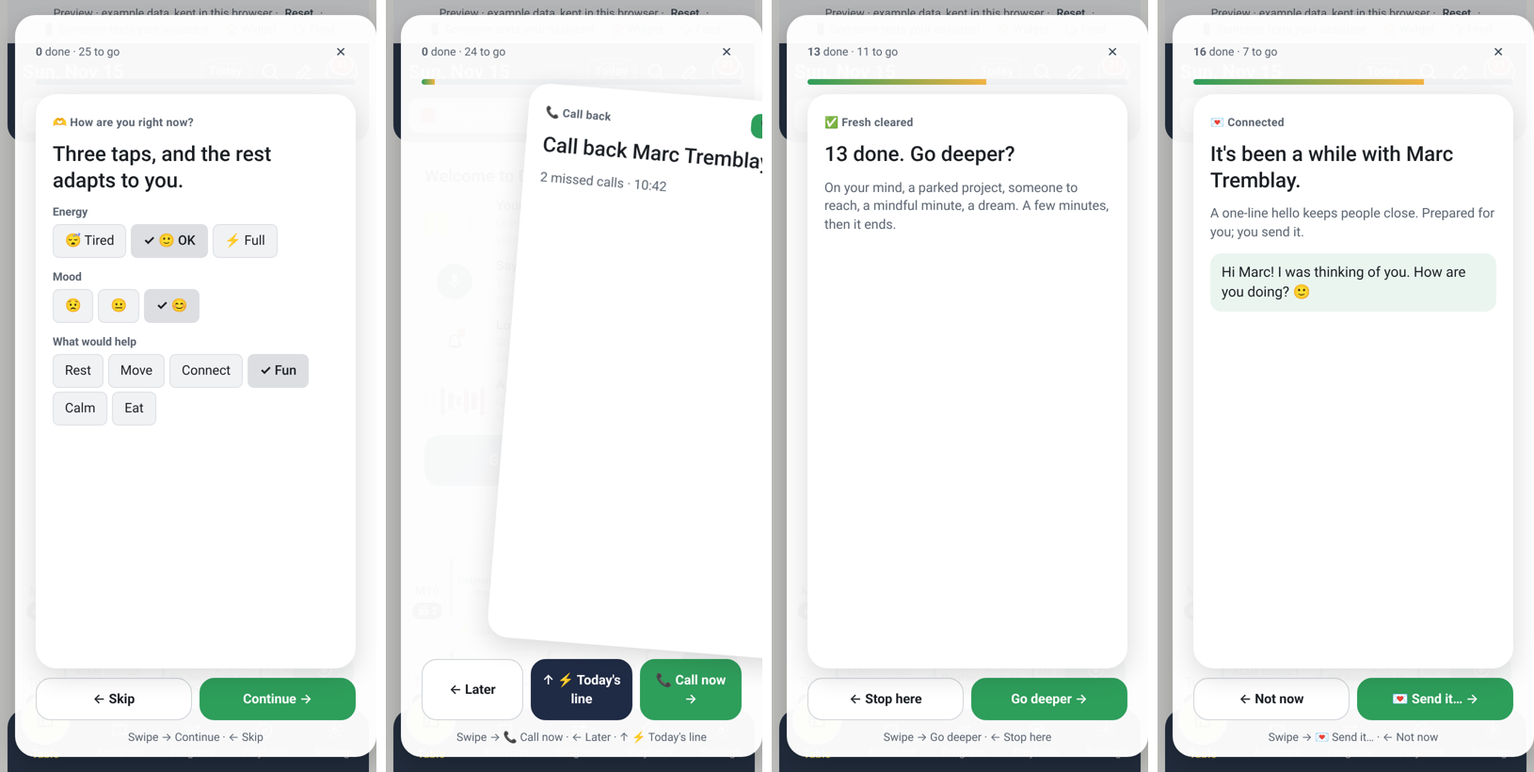
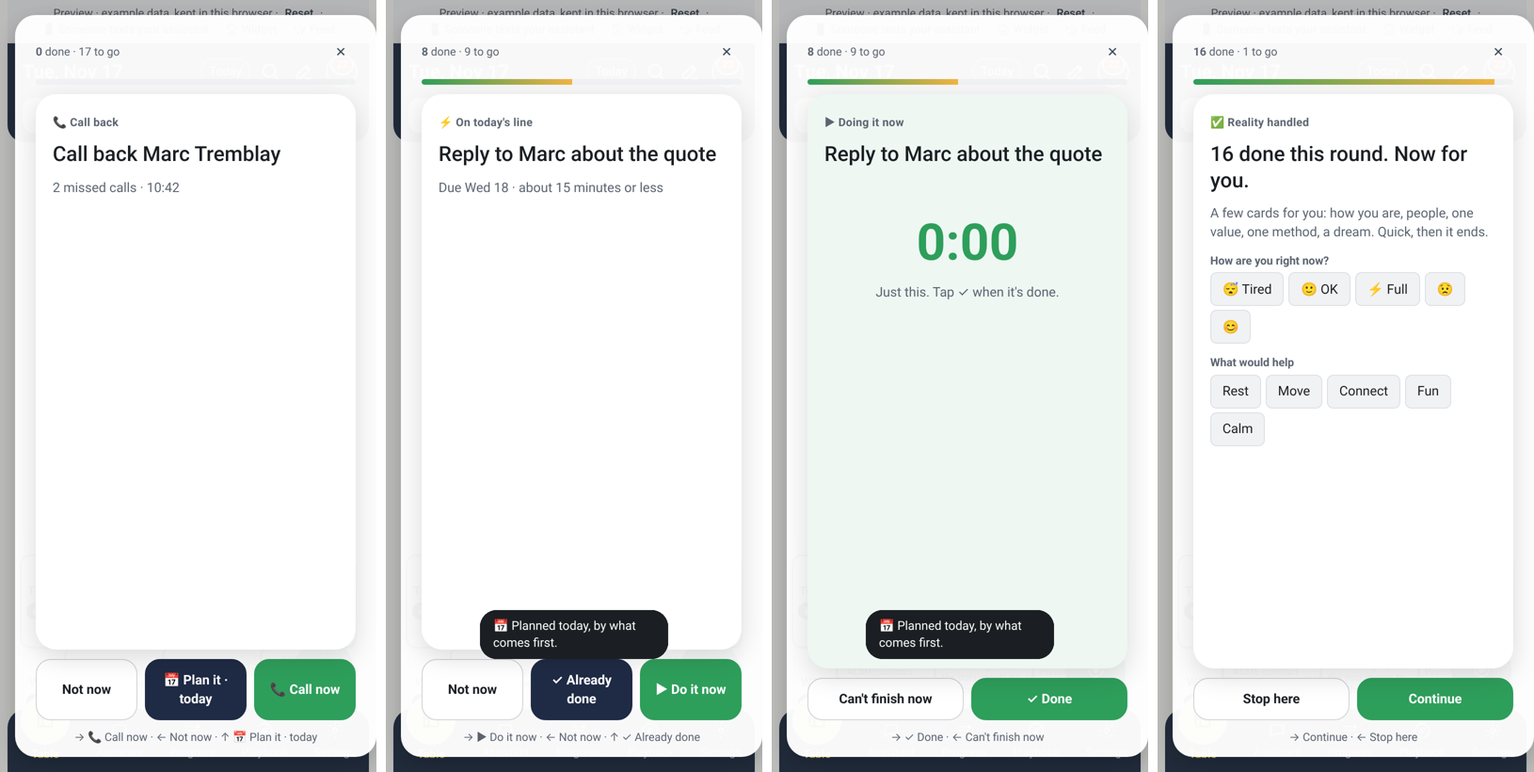
Preview: feed swipe right acts now (or plans at the best moment), inspiration only after real work, method quotes with Try it now
Claude-Session: https://claude.ai/code/session_016YHbQ4tSLyRHgwgfX2aic5

diff --git a/docs/preview/docket5-gbn-preview.html b/docs/preview/docket5-gbn-preview.html
@@ -325,6 +325,8 @@ button.rrow { background: none; border: 0; border-bottom: 1px solid var(--outlin
 .fb.fbr { background: #2E9E5B; border-color: #2E9E5B; color: #fff; } .fb.fbu { background: var(--navy); border-color: var(--navy); color: #fff; }
 .fbreath { display: grid; place-items: center; height: 200px; } .fbreath i { width: 70px; height: 70px; border-radius: 50%; background: radial-gradient(circle, #9fd8b8, #2E9E5B); animation: breathe 8s ease-in-out infinite; }
 @keyframes breathe { 0%, 100% { transform: scale(1); } 50% { transform: scale(2.4); } }
+.fdoing { display: flex; flex-direction: column; align-items: center; gap: 6px; padding: 30px 0; } .fdoing b { font-size: 54px; font-variant-numeric: tabular-nums; color: #2E9E5B; } .fdoing span { color: var(--muted); }
+.fdoingcard { background: color-mix(in srgb, #2E9E5B 8%, var(--surface)); } .fmethod { display: flex; flex-direction: column; gap: 2px; background: var(--variant); border-radius: 12px; padding: 10px 12px; font-size: 15px; } .fmethod b { font-size: 12px; color: var(--muted); }
 .fend { display: grid; grid-template-columns: repeat(3, 1fr); gap: 8px; } .fend div { display: flex; flex-direction: column; align-items: center; background: var(--variant); border-radius: 14px; padding: 10px 4px; }
 .fend b { font-size: 26px; } .fend span { font-size: 11px; color: var(--muted); text-align: center; } .fendcard { background: linear-gradient(160deg, color-mix(in srgb, #F2B544 18%, var(--surface)), var(--surface)); }
 .feedgo { font: inherit; font-weight: 700; font-size: 14px; border: 0; border-radius: 14px; padding: 10px; background: #F2B544; color: #1F2A44; cursor: pointer; }
@@ -8349,107 +8351,128 @@ document.addEventListener("click", e => {
   plan(S); save(); render();
 });
 
-/* ---------- 🎲 The feed: one card at a time. Fresh first, then deeper; every inspiring card ends with an action; it always ends ---------- */
+/* ---------- 🎲 The feed: one card at a time. Swipe right acts now (or plans it at its best moment); reality first, then inspiration ---------- */
 /**
- * The three switches, on one deck: procrastination → action (fresh cards, quick things, parked projects), lost mind →
- * mindfulness (how are you, a mindful minute), bored mind → happy mind (dreams, nourish, remember), on a base of
- * connection (reach out, thank). Swipe right = do it, left = not now, up = the other way. By rules, on the phone.
+ * Swipe right = act now: reply, call, do it (a small timer runs while you do), or, when it can't be done now, plan it
+ * at its best moment by the order of what comes first (the day is shown on the button before the swipe). Up = plan it.
+ * Left = not now. Practical cards first (fresh, on my mind, parked); people, values and methods only after real work.
  */
-const QUOTES = [
-  ["The best time to plant a tree was 20 years ago. The second best time is now.", "Chinese proverb"],
-  ["It always seems impossible until it's done.", "Nelson Mandela"],
-  ["Do what you can, with what you have, where you are.", "Theodore Roosevelt"],
-  ["A journey of a thousand miles begins with a single step.", "Lao Tzu"],
-  ["You don't have to be great to start, but you have to start to be great.", "Zig Ziglar"],
-  ["Whether you think you can, or you think you can't, you're right.", "Henry Ford"],
+/** Methods worth knowing, each with its quote, what it teaches, and one thing to try now in the app. */
+const METHODS = [
+  { q: "If it takes less than two minutes, do it now.", a: "David Allen, Getting Things Done", m: "The 2-minute rule: tiny things done at once never pile up.", try: "two" },
+  { q: "Eat a live frog first thing in the morning, and nothing worse will happen to you the rest of the day.", a: "attributed to Mark Twain", m: "Eat the frog: the hardest task first, before the day takes your energy.", try: "frog" },
+  { q: "Work expands so as to fill the time available for its completion.", a: "C. Northcote Parkinson", m: "Timeboxing: give a task a fixed time, and it shrinks to fit.", try: "box" },
+  { q: "You do not rise to the level of your goals. You fall to the level of your systems.", a: "James Clear, Atomic Habits", m: "Habit stacking: tie a new habit to one you already have.", try: "stack" },
+  { q: "The key is not to prioritize what's on your schedule, but to schedule your priorities.", a: "Stephen Covey", m: "Big rocks first: your most important thing gets the first cell, not the leftovers.", try: "frog" },
+  { q: "Done is better than perfect.", a: "Sheryl Sandberg", m: "The ugly first draft: 15 minutes of imperfect progress beats waiting to be ready.", try: "draft" },
+  { q: "If you want a habit to stick, make it tiny.", a: "BJ Fogg, Tiny Habits", m: "Start so small you can't fail: 2 push-ups, one line, one email.", try: "stack" },
+  { q: "What gets measured gets managed.", a: "Peter Drucker", m: "The weekly review: 15 minutes on Sunday to see what moved and plan what's next.", try: "review" },
 ];
 const DREAM_QS = ["What did you love doing as a kid?", "If you had a free year, what would you do?", "What do you regret not trying yet?", "What would you do if you knew you couldn't fail?"];
-/** Small, concrete steps per value (the user's own values come first; else these by kind of value). */
 const VALUE_STEPS = { Health: ["🚶 A 15-minute walk", "💧 2 big glasses of water", "😴 In bed by 22:30"], Family: ["📞 Call a family member", "🍽 Plan a family dinner", "🎲 20 minutes of play"],
   Relationships: ["💌 Write to a friend", "☕ Plan a coffee with someone", "🙏 Thank someone"], Joy: ["🎵 Your favourite album", "🌳 Time outside", "🎨 30 minutes on a hobby"],
   Money: ["💲 Check this month's spending", "🧾 Pay one bill", "📈 15 minutes on your savings"], Reputation: ["🗣 Share one win on LinkedIn", "📝 Write 3 lines for your site", "🤝 Message a past client"],
   Organized: ["🗂 10 minutes of tidying", "📥 Empty one inbox", "🗓 Plan tomorrow"], Methodic: ["🗓 Plan tomorrow", "📋 Review your week", "🎯 One thing first tomorrow"] };
 const GENERIC_STEPS = ["⏱ 10 minutes on it today", "🗓 A block for it this week", "🤝 Ask someone to join you"];
+/** Inspiration comes after reality: at least this many things done (this round, or today). */
+const EARN = 3;
 let feed = null;
 
 function weekKey() { return weekOf(TODAY).mon; }
 function feedStats() { S.feedStats ||= {}; return S.feedStats[weekKey()] ||= { cleared: 0, inspired: 0, acted: 0 }; }
-/** The deck, in layers: how are you (if not asked lately), fresh (notifications, today's quick things), then deeper. */
-function buildDeck() {
-  const deck = [], m = S.feedMood || {}, stale = !m.at || (Date.now() - m.at) > 3 * 3600e3;
-  if (stale) deck.push({ t: "checkin" });
+const doneToday = () => S.tasks.reduce((n, t) => n + t.steps.filter(x => x.done && x.date === TODAY).length, 0) + (S.quick || []).filter(q => q.done && q.doneOn === TODAY).length;
+/** The best day for a quick thing: today while today's ⚡ line has room, else tomorrow (or before its deadline). */
+const quickBest = q => quickOn(TODAY).filter(x => !x.done).length < quickPerDay() || (q.due && q.due <= TODAY) ? TODAY : addDays(TODAY, 1);
+const whenLabel = d => d === TODAY ? "today" : d === addDays(TODAY, 1) ? "tomorrow" : dayFull(d);
+/** The method that fits now: many pushes → eat the frog or timebox; stuck work → the ugly draft; few routines → habits. */
+function methodNow() {
+  const pushed = S.tasks.flatMap(t => t.steps).filter(x => !x.done && (x.pushLog || []).length > 1).length, small = quickPool().length;
+  const pick = pushed > 2 ? ["frog", "box"] : (S.routines || []).length < 3 ? ["stack"] : small > 6 ? ["two"] : ["draft", "review", "frog"];
+  const list = METHODS.filter(x => pick.includes(x.try)), seen = S.feedM || 0; S.feedM = seen + 1;
+  return list[seen % list.length];
+}
+function buildDeck(earned) {
+  const deck = [];
   const fresh = [];
   jimmyItems().filter(x => !x.prog && (["todo", "flag", "loop", "news"].includes(x.kind) && x.u || x.kind === "call")).slice(0, 8).forEach(x => fresh.push({ t: "note", x }));
   quickOn(TODAY).filter(q => !q.done).slice(0, 5).forEach(q => fresh.push({ t: "quick", q }));
   deck.push(...fresh);
-  deck.push({ t: "deeper", n: fresh.length });
-  const deep = [];
-  quickPool().filter(q => !todayPick().includes(q.id)).slice(0, 3).forEach(q => deep.push({ t: "mind", q }));
-  S.projects.filter(p => p.pause || (isIdea(S, p) && parkedCount(p))).slice(0, 2).forEach(p => deep.push({ t: "parked", p }));
-  const vip = (S.settings.vip || [])[(new Date().getDate()) % Math.max(1, (S.settings.vip || []).length)];
-  if (vip) deep.push({ t: "reach", name: vip });
-  deep.push({ t: "thank" });
-  const b = balanceOf(), weak = Object.values(b.V).sort((x, y) => x.pct - y.pct)[0];
-  if (weak) deep.push({ t: "weak", w: weak, q: (S.feedQ = ((S.feedQ || 0) + 1) % 3) });
-  deep.push({ t: "breath" });
-  deep.push(...((S.projects.filter(p => p.dream).length < 3) ? [{ t: "dreamq", q: DREAM_QS[(S.feedQ || 0) % DREAM_QS.length] }] : []), { t: "dream", quote: QUOTES[new Date().getDate() % QUOTES.length] });
-  const fin = S.projects.map(p => ({ p, x: projectStats(S, p) })).filter(r => r.x.total && !r.x.open)[0];
-  deep.push(fin ? { t: "remember", name: fin.p.name, when: fin.x.doneOn } : { t: "remember", name: `${b.doneCount || 0} cells done this week`, when: null });
-  // Tired, low or scattered: the mindful minute and the people come first, before anything to do.
-  if (m.energy === "tired" || m.mood === "low" || ["rest", "calm", "connect"].includes(m.need)) {
-    const soft = deep.filter(c => ["breath", "reach", "thank"].includes(c.t)), rest = deep.filter(c => !soft.includes(c));
-    deep.splice(0, deep.length, ...soft, ...rest);
-  }
-  deck.push(...deep, { t: "end" });
+  // Still practical: what's on my mind and the parked projects.
+  quickPool().filter(q => !todayPick().includes(q.id)).slice(0, 3).forEach(q => deck.push({ t: "mind", q }));
+  S.projects.filter(p => p.pause || (isIdea(S, p) && parkedCount(p))).slice(0, 2).forEach(p => deck.push({ t: "parked", p }));
+  // Then, once real things are done: how are you, people, the weak value, a method, a mindful minute, a dream, remember.
+  deck.push({ t: "gate" });
+  deck.push({ t: "end" });
   return deck;
 }
-function feedSheet() {
-  feed = { deck: buildDeck(), i: 0, cleared: 0, start: Date.now(), panel: null };
-  drawFeed();
+/** The inspiring part, added only when earned; the mood decides what comes first. */
+function deepDeck() {
+  const d = [], m = S.feedMood || {};
+  const vip = (S.settings.vip || [])[(new Date().getDate()) % Math.max(1, (S.settings.vip || []).length)];
+  if (vip) d.push({ t: "reach", name: vip });
+  d.push({ t: "thank" });
+  const b = balanceOf(), weak = Object.values(b.V).sort((x, y) => x.pct - y.pct)[0];
+  if (weak) d.push({ t: "weak", w: weak, q: (S.feedQ = ((S.feedQ || 0) + 1) % 3) });
+  d.push({ t: "method", m: methodNow() });
+  d.push({ t: "breath" });
+  d.push(...(S.projects.filter(p => p.dream).length < 3 ? [{ t: "dreamq", q: DREAM_QS[(S.feedQ || 0) % DREAM_QS.length] }] : []), { t: "dream" });
+  const fin = S.projects.map(p => ({ p, x: projectStats(S, p) })).filter(r => r.x.total && !r.x.open)[0];
+  d.push(fin ? { t: "remember", name: fin.p.name, when: fin.x.doneOn } : { t: "remember", name: `${b.doneCount || 0} cells done this week`, when: null });
+  if (m.energy === "tired" || m.mood === "low" || ["rest", "calm", "connect"].includes(m.need)) {
+    const soft = d.filter(c => ["breath", "reach", "thank"].includes(c.t)); return [...soft, ...d.filter(c => !soft.includes(c))];
+  }
+  return d;
 }
-const feedNext = (cleared = false) => { if (cleared) { feed.cleared++; feedStats().cleared++; } feed.i++; feed.panel = null; save(); drawFeed(); };
+function feedSheet() { feed = { deck: buildDeck(), i: 0, cleared: 0, start: Date.now(), doing: null }; drawFeed(); }
+const feedNext = (cleared = false) => { if (cleared) { feed.cleared++; feedStats().cleared++; } feed.i++; feed.doing = null; save(); drawFeed(); };
 const acted = () => { feedStats().acted++; };
-/** What a card shows and what each way does: [label, run]. */
+/** "Doing it now": the card turns into a small timer; ✓ Done when finished, or plan it if it can't be finished now. */
+function doNow(title, done, later) { feed.doing = { title, at: Date.now(), done, later }; drawFeed(); }
 function cardOf(c) {
-  const close = (u, how) => { u.handled = true; if (u.status === "new") u.status = "dismissed"; u.handledAs = how; };
+  const closeU = (u, how) => { u.handled = true; if (u.status === "new") u.status = "dismissed"; u.handledAs = how; };
+  if (feed.doing) { const g = feed.doing;
+    return { k: "▶ Doing it now", title: g.title, body: `<div class="fdoing"><b id="f-timer">0:00</b><span>Just this. Tap ✓ when it's done.</span></div>`,
+      right: ["✓ Done", () => { g.done(); acted(); feedNext(true); }], left: ["Can't finish now", () => { g.later(); feedNext(true); }] }; }
   switch (c.t) {
-    case "checkin": { const m = feed.mood ||= {};
-      return { k: "🫶 How are you right now?", title: "Three taps, and the rest adapts to you.", body: `
-        <div class="fqs"><span>Energy</span><div class="picks">${[["tired", "😴 Tired"], ["ok", "🙂 OK"], ["full", "⚡ Full"]].map(([v, l]) => tag(m.energy === v, `data-fm="energy|${v}"`, l)).join("")}</div></div>
-        <div class="fqs"><span>Mood</span><div class="picks">${[["low", "😟"], ["meh", "😐"], ["good", "😊"]].map(([v, l]) => tag(m.mood === v, `data-fm="mood|${v}"`, l)).join("")}</div></div>
-        <div class="fqs"><span>What would help</span><div class="picks">${[["rest", "Rest"], ["move", "Move"], ["connect", "Connect"], ["fun", "Fun"], ["calm", "Calm"], ["eat", "Eat"]].map(([v, l]) => tag(m.need === v, `data-fm="need|${v}"`, l)).join("")}</div></div>`,
-        right: ["Continue", () => { S.feedMood = { ...m, at: Date.now() }; feed.deck = [...feed.deck.slice(0, feed.i + 1), ...buildDeck().filter(x => x.t !== "checkin")]; feedNext(); }],
-        left: ["Skip", () => { S.feedMood = { at: Date.now() }; feedNext(); }] }; }
     case "note": { const x = c.x, u = x.u;
       if (x.kind === "call") return { k: "📞 Call back", title: x.title, body: `<div class="fsub">${esc(x.sub)}</div>`,
         right: ["📞 Call now", () => { toast(`On the phone: the dialer opens on ${x.c.who}.`); S.missed = S.missed.filter(y => y !== x.c); feedNext(true); }],
-        left: ["Later", () => feedNext()], up: ["⚡ Today's line", () => { addQuick(`📞 Call back ${x.c.who}`, TODAY, { impact: 3 }); S.missed = S.missed.filter(y => y !== x.c); feedNext(true); }] };
-      return { k: `${JKIND[x.kind][0]} ${JKIND[x.kind][1]} · ${esc(x.from)}`, title: x.title, body: `<div class="fsub">${esc(x.sub)}</div>`,
-        right: ["✓ Done", () => { close(u, "done"); feedNext(true); }],
-        left: ["⏰ Later", () => { u.park = { day: addDays(TODAY, 1) }; feedNext(); }],
-        up: ["⚡ Today", () => { addQuick(x.title, TODAY, { area: x.area }); close(u, "done"); feedNext(true); }] }; }
-    case "quick": { const q = c.q;
+        left: ["Not now", () => feedNext()], up: ["📅 Plan it · today", () => { addQuick(`📞 Call back ${x.c.who}`, TODAY, { impact: 3 }); S.missed = S.missed.filter(y => y !== x.c); feedNext(true); }] };
+      // The best action now: answer it, do what it proposes (placed at its best moment), or close it.
+      const reply = !u.reply && canReply(u), proposes = (u.actions || []).length && u.status === "new";
+      const right = reply ? ["↩ Reply now", () => { feed.i++; save(); replySheet(u); }]
+        : proposes ? ["✓ Do as proposed", () => { applyActions(S, u.actions); u.status = "applied"; closeU(u, "done"); plan(S); const st = S.tasks.flatMap(t => t.steps).find(s => s.title === (u.actions.find(a => a.type === "add") || {}).title); toast(st && st.date ? `📅 Planned ${whenLabel(st.date)}, by what comes first.` : "✓ Done as proposed."); feedNext(true); }]
+        : ["✓ Done", () => { closeU(u, "done"); feedNext(true); }];
+      return { k: `${JKIND[x.kind][0]} ${JKIND[x.kind][1]} · ${esc(x.from)}`, title: x.title, body: `<div class="fsub">${esc(x.sub)}</div>`, right,
+        left: ["Not now", () => { u.park = { day: addDays(TODAY, 1) }; feedNext(); }],
+        up: ["📅 Plan it", () => { const t = newTask(S, { title: x.title, desc: u.summary || "" }); t.area = x.area; plan(S); closeU(u, "done"); toast(`📅 Planned ${whenLabel(t.steps[0].date || TODAY)}, by what comes first.`); feedNext(true); }] }; }
+    case "quick": { const q = c.q, best = quickBest(q);
       return { k: "⚡ On today's line", title: q.title, body: `<div class="fsub">${q.due ? "Due " + esc(dayName(q.due)) : "No deadline"} · about 15 minutes or less</div>`,
-        right: ["✓ Done", () => { q.done = true; q.doneOn = TODAY; feedNext(true); }], left: ["Not today", () => { swapQuick(q.id); feedNext(); }],
-        up: ["📋 It's bigger", () => { S.quick = S.quick.filter(y => y !== q); newTask(S, { title: q.title, desc: "" }); plan(S); feedNext(true); }] }; }
-    case "deeper": return { k: c.n ? "✅ Fresh cleared" : "✨ Nothing new", title: c.n ? `${feed.cleared} done. Go deeper?` : "Nothing new to handle. Go deeper?",
-      body: `<div class="fsub">On your mind, a parked project, someone to reach, a mindful minute, a dream. A few minutes, then it ends.</div>`,
-      right: ["Go deeper", () => feedNext()], left: ["Stop here", () => { feed.i = feed.deck.length - 1; drawFeed(); }] };
-    case "mind": { const q = c.q;
-      return { k: "✏ On your mind", title: q.title, body: `<div class="picks">${tag(false, 'data-fx="buy"', "🛒 To buy")}${tag(false, 'data-fx="idea"', "💡 Idea")}${tag(false, 'data-fx="del"', "🗑 Drop")}</div>`,
-        right: ["⚡ Today", () => { const ids = todayPick(); if (!ids.includes(q.id)) S.quickPick.ids.push(q.id); feedNext(true); }], left: ["Later", () => feedNext()],
-        up: ["📋 A task", () => { S.quick = S.quick.filter(y => y !== q); newTask(S, { title: q.title, desc: "" }); plan(S); feedNext(true); }],
-        extra: k => { S.quick = S.quick.filter(y => y !== q); if (k === "buy") S.buy.push({ id: uid(), text: q.title, done: false, work: false }); if (k === "idea") S.projects.push({ name: q.title, priority: "NORMAL", deadline: null, values: [], blocks: [], notes: "" }); feedNext(true); } }; }
+        right: ["▶ Do it now", () => doNow(q.title, () => { q.done = true; q.doneOn = TODAY; }, () => { q.date = addDays(TODAY, 1); swapQuick(q.id); })],
+        left: ["Not now", () => { swapQuick(q.id); feedNext(); }],
+        up: ["✓ Already done", () => { q.done = true; q.doneOn = TODAY; feedNext(true); }] }; }
+    case "mind": { const q = c.q, best = quickBest(q);
+      return { k: "✏ On your mind", title: q.title, body: `<div class="picks">${tag(false, 'data-fx="task"', "📋 It's a task")}${tag(false, 'data-fx="buy"', "🛒 To buy")}${tag(false, 'data-fx="idea"', "💡 Idea")}${tag(false, 'data-fx="del"', "🗑 Drop")}</div>`,
+        right: ["▶ Do it now", () => doNow(q.title, () => { q.done = true; q.doneOn = TODAY; }, () => { q.date = addDays(TODAY, 1); })],
+        left: ["Not now", () => feedNext()],
+        up: [`📅 Plan it · ${whenLabel(best)}`, () => { if (best === TODAY) { const ids = todayPick(); if (!ids.includes(q.id)) S.quickPick.ids.push(q.id); } else q.date = best; feedNext(true); }],
+        extra: k => { S.quick = S.quick.filter(y => y !== q); if (k === "task") { newTask(S, { title: q.title, desc: "" }); plan(S); } if (k === "buy") S.buy.push({ id: uid(), text: q.title, done: false, work: false }); if (k === "idea") S.projects.push({ name: q.title, priority: "NORMAL", deadline: null, values: [], blocks: [], notes: "" }); feedNext(true); } }; }
     case "parked": { const p = c.p;
       return { k: "⏸ Parked", title: p.name, body: `<div class="fsub">${p.pause ? `${esc(p.pause.why || "Paused")} · since ${esc(dayName(p.pause.since))}` : `${parkedCount(p)} steps waiting`}</div>`,
-        right: ["▶ Resume", () => { delete p.pause; resumeProject(p.name); feedNext(true); }], left: ["Still later", () => feedNext()],
+        right: ["▶ Resume", () => { delete p.pause; resumeProject(p.name); feedNext(true); }], left: ["Not now", () => feedNext()],
         up: ["1⃣ One small step", () => { const st = S.tasks.filter(t => t.project === p.name).flatMap(t => t.steps).find(x => x.outcome === "PARKED"); if (st) { st.outcome = null; plan(S); } toast("Only its first step is back in your table."); feedNext(true); }] }; }
-    case "reach": { 
-      const msg = `Hi ${c.name.split(" ")[0]}! I was thinking of you. How are you doing? 🙂`;
+    case "gate": { const n = feed.cleared + doneToday();
+      if (n < EARN) { feed.deck.splice(feed.i, 1); return cardOf(feed.deck[feed.i]); }
+      const m = feed.mood ||= {};
+      return { k: "✅ Reality handled", title: `${feed.cleared} done this round. Now for you.`, body: `<div class="fsub">A few cards for you: how you are, people, one value, one method, a dream. Quick, then it ends.</div>
+        <div class="fqs"><span>How are you right now?</span><div class="picks">${[["tired", "😴 Tired"], ["ok", "🙂 OK"], ["full", "⚡ Full"]].map(([v, l]) => tag(m.energy === v, `data-fm="energy|${v}"`, l)).join("")}${[["low", "😟"], ["good", "😊"]].map(([v, l]) => tag(m.mood === v, `data-fm="mood|${v}"`, l)).join("")}</div></div>
+        <div class="fqs"><span>What would help</span><div class="picks">${[["rest", "Rest"], ["move", "Move"], ["connect", "Connect"], ["fun", "Fun"], ["calm", "Calm"]].map(([v, l]) => tag(m.need === v, `data-fm="need|${v}"`, l)).join("")}</div></div>`,
+        right: ["Continue", () => { S.feedMood = { ...m, at: Date.now() }; feed.deck.splice(feed.i + 1, 0, ...deepDeck()); feedNext(); }],
+        left: ["Stop here", () => { feed.i = feed.deck.length - 1; drawFeed(); }] }; }
+    case "reach": { const msg = `Hi ${c.name.split(" ")[0]}! I was thinking of you. How are you doing? 🙂`;
       return { k: "💌 Connected", title: `It's been a while with ${c.name}.`, body: `<div class="fsub">A one-line hello keeps people close. Prepared for you; you send it.</div><div class="fmsg">${esc(msg)}</div>`,
         right: ["💌 Send it…", () => { acted(); toast(`On the phone: your messages open with the line ready for ${c.name}. You send it.`); feedNext(true); }], left: ["Not now", () => feedNext()] }; }
-    case "thank": { 
-      const names = [...new Set([...(S.settings.vip || []), ...S.updates.slice(0, 6).map(u => u.from.replace(/\s*\(.*$/, ""))])].slice(0, 5);
+    case "thank": { const names = [...new Set([...(S.settings.vip || []), ...S.updates.slice(0, 6).map(u => u.from.replace(/\s*\(.*$/, ""))])].slice(0, 5);
       return { k: "🙏 Connected", title: "Who helped you this week?", body: `<div class="picks">${names.map(n => tag(feed.who === n, `data-fw="${esc(n)}"`, esc(n))).join("")}</div>
         ${feed.who ? `<div class="fmsg">Thank you ${esc(feed.who.split(" ")[0])} for your help this week. It really made a difference 🙏</div>` : `<div class="fsub">Pick someone: a thank-you is prepared for you to send.</div>`}`,
         right: ["🙏 Send it…", () => { if (!feed.who) return toast("Pick someone first."); acted(); toast(`On the phone: your messages open with the thank-you for ${feed.who}.`); feed.who = null; feedNext(true); }], left: ["Not now", () => { feed.who = null; feedNext(); }] }; }
@@ -8461,28 +8484,37 @@ function cardOf(c) {
       const [qt, chips] = qs[c.q % qs.length];
       return { k: `🌱 ${w.v.bucket === "nourish" ? "Nourish" : w.v.bucket === "build" ? "Build" : "Ground"} · your lowest this week`, title: qt,
         body: `<div class="fchips">${chips.map(([l], i) => `<button class="fchip" data-fc="${i}">${esc(l)}</button>`).join("")}</div>`,
-        chips: i => { chips[i][1](); acted(); toast("✓ Done: it's in your plan."); feedNext(true); }, left: ["Not now", () => feedNext()] }; }
-    case "breath": { 
-      return { k: "🧘 A mindful minute", title: "Breathe with the circle.", body: `<div class="fbreath"><i></i></div><div class="fsub" style="text-align:center">In as it grows, out as it shrinks. Just this, for one minute.</div>`,
-        right: ["✓ Done", () => { acted(); feedNext(true); }], left: ["Skip", () => feedNext()] }; }
-    case "dreamq": { 
-      return { k: "✨ Your dreams", title: c.q, body: `<input id="f-dream" class="jnote" placeholder="A few words, e.g. play the piano" style="width:100%"><div class="fsub">It becomes a dream ✨ in your ideas, with a first small step.</div>`,
-        right: ["✨ Keep it", () => { const v = ($("#f-dream").value || "").trim(); if (!v) return toast("A few words first."); S.projects.push({ name: v, priority: "NORMAL", deadline: null, values: [], blocks: [], notes: `✨ A dream: “${c.q}”`, dream: true }); acted(); feedNext(true); }],
-        left: ["Not now", () => feedNext()] }; }
+        chips: i => { chips[i][1](); acted(); toast("✓ In your plan."); feedNext(true); }, left: ["Not now", () => feedNext()] }; }
+    case "method": { const m = c.m, top = S.tasks.flatMap(t => t.steps.filter(x => !x.done && !x.outcome && x.date && x.date >= TODAY).map(x => ({ t, x }))).sort((a, b) => keyCmp(orderKey(S, a.t, a.x), orderKey(S, b.t, b.x)));
+      const tries = {
+        two: [["⚡ Do one 2-minute thing now", () => { const q = quickPool()[0] || quickOn(TODAY).find(z => !z.done); if (q) return doNow(q.title, () => { q.done = true; q.doneOn = TODAY; }, () => { }); toast("Nothing that small right now."); }]],
+        frog: top.slice(0, 3).map(({ t, x }) => [`🐸 ${cellTitle(t, x)} first tomorrow`, () => { pinStepTo(S, x, addDays(TODAY, 1)); x.slot = 0; plan(S, { resort: false }); toast("🐸 Tomorrow's first cell."); }]),
+        box: top.slice(0, 2).map(({ t, x }) => [`⏱ 25 minutes on “${cellTitle(t, x)}” now`, () => doNow(`25 minutes: ${cellTitle(t, x)}`, () => { x.done = true; }, () => { })]),
+        stack: ["☕ my morning coffee", "🥗 lunch", "🏠 getting home"].map(a => [`After ${a.replace(/^\S+\s/, "")}: one tiny habit`, () => { (S.routines ||= []).push({ id: uid(), title: `Tiny habit, after ${a.replace(/^\S+\s/, "")}`, days: [1, 2, 3, 4, 5, 6, 7], moment: a.includes("coffee") ? "morning" : a.includes("lunch") ? "noon" : "evening" }); toast("🔁 A tiny routine, set."); }]),
+        draft: top.slice(0, 2).map(({ t, x }) => [`✏ 15 ugly minutes on “${cellTitle(t, x)}”`, () => doNow(`15 minutes, imperfect: ${cellTitle(t, x)}`, () => { }, () => { })]),
+        review: [["🗓 A 15-minute review, Sunday", () => { addQuick("🗓 Weekly review (15 minutes)", (() => { let d = TODAY; while (dow(d) !== 7) d = addDays(d, 1); return d; })(), { impact: 3 }); toast("🗓 Sunday's ⚡ line."); }]] };
+      const chips = (tries[m.try] || []).filter(Boolean);
+      return { k: "🧠 A method that works", title: `“${m.q}”`, body: `<div class="fsub">— ${esc(m.a)}</div><div class="fmethod"><b>The method</b>${esc(m.m)}</div>
+        ${chips.length ? `<div class="fq2">Try it now</div><div class="fchips">${chips.map(([l], i) => `<button class="fchip" data-fc="${i}">${esc(l)}</button>`).join("")}</div>` : ""}`,
+        chips: i => { const before = feed.doing; chips[i][1](); acted(); if (!feed.doing || feed.doing === before) feedNext(true); }, left: ["Next", () => feedNext()] }; }
+    case "breath": return { k: "🧘 A mindful minute", title: "Breathe with the circle.", body: `<div class="fbreath"><i></i></div><div class="fsub" style="text-align:center">In as it grows, out as it shrinks. One minute resets a scattered mind.</div>`,
+      right: ["✓ Done", () => { acted(); feedNext(true); }], left: ["Skip", () => feedNext()] };
+    case "dreamq": return { k: "✨ Your dreams", title: c.q, body: `<input id="f-dream" class="jnote" placeholder="A few words, e.g. play the piano" style="width:100%"><div class="fsub">It becomes a dream ✨ in your ideas, with a first small step.</div>`,
+      right: ["✨ Keep it", () => { const v = ($("#f-dream").value || "").trim(); if (!v) return toast("A few words first."); S.projects.push({ name: v, priority: "NORMAL", deadline: null, values: [], blocks: [], notes: `✨ A dream: “${c.q}”`, dream: true }); acted(); feedNext(true); }],
+      left: ["Not now", () => feedNext()] };
     case "dream": { const dreams = S.projects.filter(p => p.dream).map(p => p.name), d = feed.dream;
-      return { k: "✨ Quote of the moment", title: `“${c.quote[0]}”`, body: `<div class="fsub">— ${esc(c.quote[1])}</div>
-        <div class="fq2">${dreams.length ? "Which dream have you postponed the longest?" : "What would you love to start?"}</div>
-        <div class="picks">${(dreams.length ? dreams : ["Learn an instrument", "A trip I keep postponing", "Write something"]).slice(0, 5).map(n => tag(d === n, `data-fd="${esc(n)}"`, "✨ " + esc(n))).join("")}</div>
+      if (!dreams.length) { feed.deck.splice(feed.i, 1); return cardOf(feed.deck[feed.i]); }
+      return { k: "✨ A dream, one step", title: "Which dream have you postponed the longest?", body: `<div class="fsub">Small steps are how dreams move: a 10-minute step today beats a perfect plan someday.</div>
+        <div class="picks">${dreams.slice(0, 5).map(n => tag(d === n, `data-fd="${esc(n)}"`, "✨ " + esc(n))).join("")}</div>
         ${d ? `<div class="fq2">Its smallest first step?</div><div class="fchips">${["⏱ 10 minutes on it today", "📞 Call someone about it", "🗓 Book or plan it"].map((l, i) => `<button class="fchip" data-fc="${i}">${esc(l)}</button>`).join("")}</div>` : ""}`,
-        chips: i => { addQuick(`✨ ${d}: ${["10 minutes on it", "call someone about it", "book or plan it"][i]}`, TODAY, { impact: 3 }); acted(); feed.dream = null; toast("✨ On today's ⚡ line. A dream moves by small steps."); feedNext(true); },
+        chips: i => { addQuick(`✨ ${d}: ${["10 minutes on it", "call someone about it", "book or plan it"][i]}`, TODAY, { impact: 3 }); acted(); feed.dream = null; toast("✨ On today's ⚡ line."); feedNext(true); },
         left: ["Not now", () => { feed.dream = null; feedNext(); }] }; }
-    case "remember": { const st = feedStats();
-      return { k: "🏆 Remember this?", title: c.when ? `You finished ${c.name} on ${dayName(c.when)}.` : `This week: ${c.name}.`, body: `<div class="fsub">Achievements deserve a moment, not just a tick. Keep it in your Proud of jar for a harder day.</div>`,
-        right: ["❤ Keep it", () => { (S.proud ||= []).push({ text: c.when ? `Finished ${c.name}` : c.name, at: TODAY }); feedNext(true); }], left: ["Next", () => feedNext()] }; }
-    case "end": { const st = feedStats(), min = Math.max(1, Math.round((Date.now() - feed.start) / 60000));
+    case "remember": return { k: "🏆 Remember this?", title: c.when ? `You finished ${c.name} on ${dayName(c.when)}.` : `This week: ${c.name}.`, body: `<div class="fsub">Achievements deserve a moment, not just a tick. Keep it in your Proud of jar for a harder day.</div>`,
+      right: ["❤ Keep it", () => { (S.proud ||= []).push({ text: c.when ? `Finished ${c.name}` : c.name, at: TODAY }); feedNext(true); }], left: ["Next", () => feedNext()] };
+    case "end": { const st = feedStats(), min = Math.max(1, Math.round((Date.now() - feed.start) / 60000)), n = feed.cleared + doneToday();
       return { k: "🎉 All clear", title: `${feed.cleared} done in ${min} minute${min > 1 ? "s" : ""}.`, end: true,
-        body: `<div class="fend"><div><b>${st.inspired}</b><span>inspired this week</span></div><div><b>${st.acted}</b><span>turned into action</span></div><div><b>${st.cleared}</b><span>cleared this week</span></div></div>
-          <div class="fsub" style="text-align:center">You're allowed to stop 🌿 Go live.</div>${(S.proud || []).length ? `<div class="fsub" style="text-align:center">❤ ${(S.proud || []).length} in your Proud of jar.</div>` : ""}`,
+        body: `<div class="fend"><div><b>${st.cleared}</b><span>done this week</span></div><div><b>${st.inspired}</b><span>inspired</span></div><div><b>${st.acted}</b><span>turned into action</span></div></div>
+          <div class="fsub" style="text-align:center">${n < EARN ? `Do ${EARN - n} more thing${EARN - n > 1 ? "s" : ""} today, and the cards for you open: people, a method, a dream.` : "You're allowed to stop 🌿 Go live."}</div>`,
         right: ["Done for now", () => { feed = null; close(); render(); }], left: ["🎲 One more", () => feedSheet()] }; }
   }
 }
@@ -8490,15 +8522,14 @@ function drawFeed() {
   if (!feed) return;
   if (feed.i >= feed.deck.length) feed.i = feed.deck.length - 1;
   const c = feed.deck[feed.i];
-  // Counted once per card: an inspiring card shown (people, a value, a mindful minute, a dream).
-  if (!c.seen && ["reach", "thank", "weak", "breath", "dreamq", "dream"].includes(c.t)) { c.seen = true; feedStats().inspired++; }
-  const v = cardOf(c), left = feed.deck.length - 1 - feed.i, pct = Math.round(feed.i / (feed.deck.length - 1) * 100);
+  if (!feed.doing && !c.seen && ["reach", "thank", "weak", "breath", "dreamq", "dream", "method"].includes(c.t)) { c.seen = true; feedStats().inspired++; }
+  const v = cardOf(feed.deck[feed.i]), left = feed.deck.length - 1 - feed.i, pct = Math.round(feed.i / Math.max(1, feed.deck.length - 1) * 100);
   dialog(`<div class="fpage"><div class="row ftop"><span class="grow small"><b>${feed.cleared}</b> done · ${left} to go</span><button class="text" data-fz aria-label="Close">✕</button></div>
     <div class="fbar"><i style="width:${pct}%"></i></div>
-    <div class="fcard ${v.end ? "fendcard" : ""}" id="fcard"><span class="fk">${v.k}</span><h3 class="ft">${esc(v.title)}</h3>${v.body || ""}
+    <div class="fcard ${v.end ? "fendcard" : ""} ${feed.doing ? "fdoingcard" : ""}" id="fcard"><span class="fk">${v.k}</span><h3 class="ft">${esc(v.title)}</h3>${v.body || ""}
       <span class="fhint fr">${v.right ? esc(v.right[0]) : ""}</span><span class="fhint fl">${v.left ? esc(v.left[0]) : ""}</span>${v.up ? `<span class="fhint fu">${esc(v.up[0])}</span>` : ""}</div>
-    <div class="fbtns">${v.left ? `<button class="fb fbl" data-fgo="left">← ${esc(v.left[0])}</button>` : ""}${v.up ? `<button class="fb fbu" data-fgo="up">↑ ${esc(v.up[0])}</button>` : ""}${v.right ? `<button class="fb fbr" data-fgo="right">${esc(v.right[0])} →</button>` : ""}</div>
-    <div class="small" style="text-align:center">${[v.right && "Swipe → " + esc(v.right[0]), v.left && "← " + esc(v.left[0]), v.up && "↑ " + esc(v.up[0]), v.chips && !v.right && "or tap an answer"].filter(Boolean).join(" · ")}</div></div>`, host => {
+    <div class="fbtns">${v.left ? `<button class="fb fbl" data-fgo="left">${esc(v.left[0])}</button>` : ""}${v.up ? `<button class="fb fbu" data-fgo="up">${esc(v.up[0])}</button>` : ""}${v.right ? `<button class="fb fbr" data-fgo="right">${esc(v.right[0])}</button>` : ""}</div>
+    <div class="small" style="text-align:center">${[v.right && "→ " + esc(v.right[0]), v.left && "← " + esc(v.left[0]), v.up && "↑ " + esc(v.up[0]), v.chips && !v.right && "or tap one"].filter(Boolean).join(" · ")}</div></div>`, host => {
     host.querySelector(".dialog")?.classList.add("full");
     host.querySelector("[data-fz]").onclick = () => { feed = null; close(); render(); };
     const run = way => { const a = v[way]; if (!a) return; const card = $("#fcard"); card.classList.add("go-" + way); setTimeout(() => a[1](), 160); };
@@ -8508,7 +8539,7 @@ function drawFeed() {
     host.querySelectorAll("[data-fc]").forEach(b => b.onclick = () => v.chips(+b.dataset.fc));
     host.querySelectorAll("[data-fw]").forEach(b => b.onclick = () => { feed.who = b.dataset.fw; drawFeed(); });
     host.querySelectorAll("[data-fd]").forEach(b => b.onclick = () => { feed.dream = b.dataset.fd; drawFeed(); });
-    // The swipe: drag the card; past a threshold it goes that way.
+    if (feed.doing) { const tick = () => { const el = $("#f-timer"); if (!el || !feed || !feed.doing) return; const s = Math.floor((Date.now() - feed.doing.at) / 1000); el.textContent = `${Math.floor(s / 60)}:${String(s % 60).padStart(2, "0")}`; setTimeout(tick, 1000); }; tick(); }
     const card = $("#fcard"); let x0 = null, y0 = 0, dx = 0, dy = 0;
     card.addEventListener("pointerdown", e => { if (e.target.closest("button, input")) return; x0 = e.clientX; y0 = e.clientY; dx = dy = 0; try { card.setPointerCapture(e.pointerId); } catch (x) { } });
     card.addEventListener("pointermove", e => { if (x0 == null) return; dx = e.clientX - x0; dy = e.clientY - y0; card.style.transform = `translate(${dx}px, ${Math.min(0, dy)}px) rotate(${dx / 20}deg)`;
